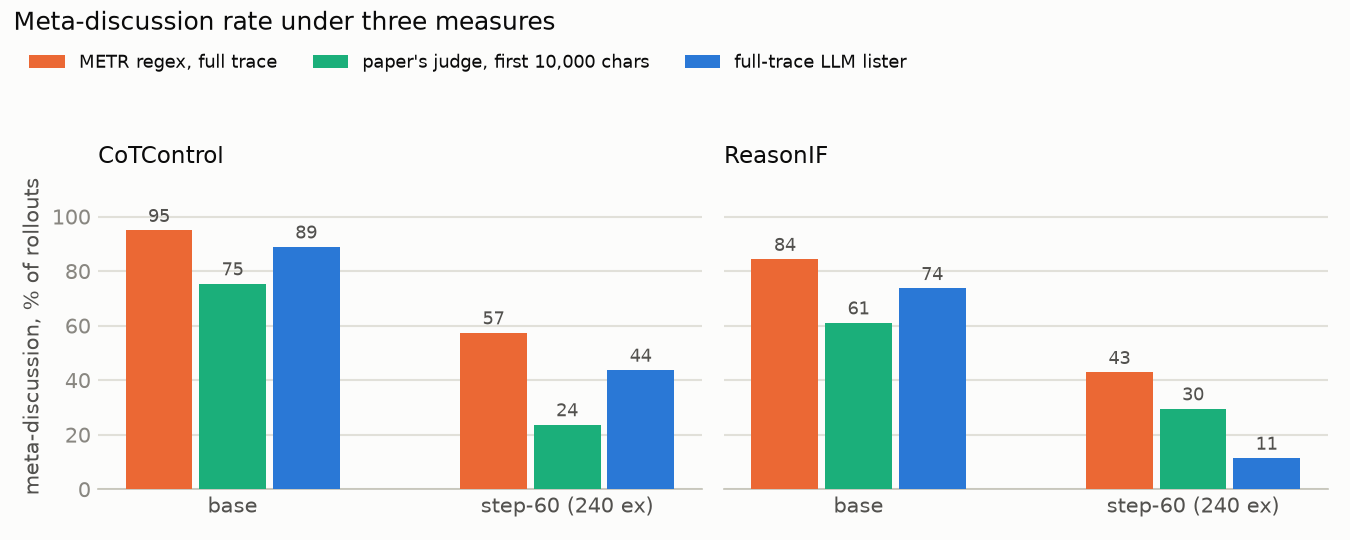
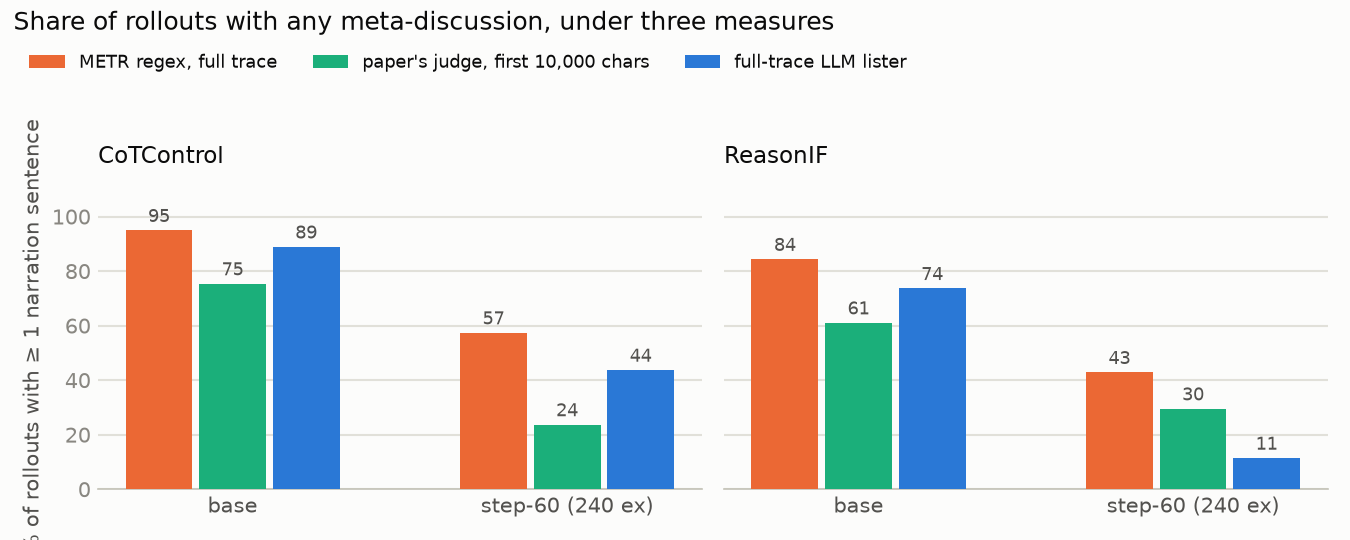
META_DISCUSSION_FULLTRACE.md: six more figures (per-condition measures, sentence overlap, per-mode SFT effect, sentences per trace, first-narration position, taxonomy, accuracy by narration); clearer y-axis on three-measures chart

Changed region(s): [[0.0, 0.0, 0.6222, 0.0593], [0.0, 0.5333, 0.0311, 0.9778], [0.0, 0.2074, 0.0311, 0.5037]]

diff --git a/scripts/report_strip_llm.py b/scripts/report_strip_llm.py
@@ -182,9 +182,9 @@ for ax, suite, title in zip(axes, ("cotcontrol", "reasonif"), ("CoTControl", "Re
         for i, v in zip(x, vals): ax.text(i + off, v + 1.5, f"{v:.0f}", ha="center", va="bottom", fontsize=8.5, color=INK2)
     ax.set_xticks(list(x)); ax.set_xticklabels([CKL[c] for c in CK], color=INK2); ax.set_ylim(0, 112); ax.set_yticks(range(0, 101, 20)); ax.yaxis.grid(True, color=GRID, lw=1); ax.set_axisbelow(True)
     ax.spines["left"].set_visible(False); ax.tick_params(length=0); ax.set_title(title, loc="left", fontsize=11, color=INK, pad=10)
-axes[0].set_ylabel("meta-discussion, % of rollouts", color=INK2)
+axes[0].set_ylabel("% of rollouts with ≥ 1 narration sentence", color=INK2)
 h_, l_ = axes[0].get_legend_handles_labels(); fig.legend(h_, l_, frameon=False, loc="upper left", bbox_to_anchor=(0.01, 0.93), ncol=3, fontsize=8.5)
-fig.suptitle("Meta-discussion rate under three measures", x=0.01, ha="left", fontsize=12, color=INK); fig.tight_layout(rect=(0, 0, 1, 0.86)); fig.savefig(OUT / "llm_three_measures.png"); plt.close(fig)
+fig.suptitle("Share of rollouts with any meta-discussion, under three measures", x=0.01, ha="left", fontsize=12, color=INK); fig.tight_layout(rect=(0, 0, 1, 0.86)); fig.savefig(OUT / "llm_three_measures.png"); plt.close(fig)
 
 # per-mode strictness
 P("### Per condition: which measure is stricter?\n")
@@ -197,6 +197,27 @@ for suite in ("cotcontrol", "reasonif"):
             P(f"| {suite} | {m} | {lbl} | {pct(mean([r['regex_meta'] for r in xs]),0)} | {pct(mean([r['capped_judge_meta'] for r in xs if r['capped_judge_meta'] is not None]),0)} | {pct(mean([r['llm_meta'] for r in xs]),0)} | {sum(r['regex_meta'] and not r['llm_meta'] for r in xs)} | {sum(r['llm_meta'] and not r['regex_meta'] for r in xs)} |")
 P("")
 # sentence-level precision / recall of regex patterns
+P("![Per-condition rates under the three measures](figures/llm_per_condition_measures.png)\n")
+# Fig: per condition, three measures, base vs step-60 (two rows)
+allm = [("cotcontrol", m) for m in CMODES] + [("reasonif", m) for m in RMODES]
+fig, axes = plt.subplots(2, 1, figsize=(10.5, 6.6), dpi=150, sharex=True)
+for ax, lbl in zip(axes, CK):
+    x = range(len(allm)); w = 0.26
+    for off, key, col, lab in ((-0.27, "regex_meta", ORANGE, "METR regex, full trace"), (0.0, "capped_judge_meta", AQUA, "paper's judge, first 10,000 chars"), (0.27, "llm_meta", BLUE, "full-trace LLM lister")):
+        vals = []
+        for suite, m in allm:
+            xs = [r for r in R[(lbl, suite)] if r["mode"] == m and r[key] is not None]
+            vals.append(100 * mean([r[key] for r in xs]) if xs else 0)
+        ax.bar([i + off for i in x], vals, width=w, color=col, label=lab, zorder=3)
+    ax.set_ylim(0, 100); ax.yaxis.grid(True, color=GRID, lw=1); ax.set_axisbelow(True); ax.spines["left"].set_visible(False); ax.tick_params(length=0)
+    ax.set_ylabel("% rollouts with narration", color=INK2); ax.set_title(CKL[lbl], loc="left", fontsize=10.5, color=INK)
+    ax.axvline(len(CMODES) - 0.5, color=BASE, lw=1)
+axes[1].set_xticks(list(range(len(allm)))); axes[1].set_xticklabels([m.replace("_", "\n") for _, m in allm], fontsize=7.5, color=INK2)
+axes[0].text(len(CMODES) / 2 - 0.5, 104, "CoTControl", ha="center", fontsize=9, color=MUTED); axes[0].text(len(CMODES) + len(RMODES) / 2 - 0.5, 104, "ReasonIF", ha="center", fontsize=9, color=MUTED)
+h_, l_ = axes[0].get_legend_handles_labels(); fig.legend(h_, l_, frameon=False, loc="upper left", bbox_to_anchor=(0.01, 0.95), ncol=3, fontsize=8.5)
+fig.suptitle("Per condition: share of rollouts with any meta-discussion, three measures", x=0.01, ha="left", fontsize=12, color=INK)
+fig.tight_layout(rect=(0, 0, 1, 0.9)); fig.savefig(OUT / "llm_per_condition_measures.png", bbox_inches="tight"); plt.close(fig)
+
 P("### Sentence level: METR's regex patterns against the LLM labels\n")
 P("Unit = sentence (split at `.!?` + space or newline). A regex hit is a true positive if the LLM also listed that sentence. Recall = share of LLM-labelled sentences that any pattern catches.\n")
 P("| ckpt | pattern | hits | precision |\n|---|---|---:|---:|")
@@ -224,6 +245,29 @@ if pats:
     ax.spines["left"].set_color(BASE); ax.spines["bottom"].set_color(BASE); ax.tick_params(length=0); ax.set_xlabel("precision: % of pattern hits the LLM also labelled narration", color=INK2)
     ax.legend(frameon=False, loc="lower right", fontsize=9); ax.set_title("Which METR regex patterns are trustworthy", loc="left", fontsize=11, color=INK)
     fig.tight_layout(); fig.savefig(OUT / "llm_regex_precision.png", bbox_inches="tight"); plt.close(fig)
+# Fig: sentence-level overlap regex vs LLM
+P("![Sentence-level overlap](figures/llm_sentence_overlap.png)\n")
+fig, ax = plt.subplots(figsize=(8, 2.8), dpi=150)
+cats = []
+for lbl in CK:
+    for suite in ("cotcontrol", "reasonif"):
+        us = [u for r in R[(lbl, suite)] for u in r["units"]]
+        if not us: continue
+        both = sum(1 for u in us if u["llm"] and u["regex"]); ro = sum(1 for u in us if u["regex"] and not u["llm"]); lo = sum(1 for u in us if u["llm"] and not u["regex"])
+        cats.append((f"{lbl} / {suite}", ro, both, lo))
+ys = list(range(len(cats)))[::-1]
+for y, (name, ro, both, lo) in zip(ys, cats):
+    tot = ro + both + lo
+    ax.barh(y, 100 * ro / tot, color=ORANGE, height=0.55, zorder=3, label="regex only" if y == ys[0] else None)
+    ax.barh(y, 100 * both / tot, left=100 * ro / tot + 0.4, color=AQUA, height=0.55, zorder=3, label="both" if y == ys[0] else None)
+    ax.barh(y, 100 * lo / tot, left=100 * (ro + both) / tot + 0.8, color=BLUE, height=0.55, zorder=3, label="LLM only" if y == ys[0] else None)
+    ax.text(101.5, y, f"n = {tot:,}", va="center", fontsize=8.5, color=INK2)
+ax.set_yticks(ys); ax.set_yticklabels([c[0] for c in cats], color=INK2, fontsize=9); ax.set_xlim(0, 118); ax.set_xticks(range(0, 101, 20)); ax.xaxis.grid(True, color=GRID, lw=1); ax.set_axisbelow(True)
+ax.spines["left"].set_color(BASE); ax.spines["bottom"].set_color(BASE); ax.tick_params(length=0); ax.set_xlabel("% of sentences flagged by either detector", color=INK2)
+ax.legend(frameon=False, loc="lower left", bbox_to_anchor=(0, 1.0), ncol=3, fontsize=9)
+ax.set_title("The two detectors mostly flag different sentences", loc="left", fontsize=11, color=INK, pad=26)
+fig.tight_layout(); fig.savefig(OUT / "llm_sentence_overlap.png", bbox_inches="tight"); plt.close(fig)
+
 # disagreement examples
 P("### Disagreement examples\n")
 for lbl in CK:
@@ -254,6 +298,43 @@ for suite in ("cotcontrol", "reasonif"):
         xs = [r for r in R[(lbl, suite)] if r["llm_meta"] and r["first_llm_pos"] is not None]
         if xs: P(f"| {suite} | first narration sentence, median position in trace ({lbl}) | | | {100*st.median(r['first_llm_pos'] for r in xs):.0f} % of trace | last: {100*st.median(r['last_llm_pos'] for r in xs):.0f} % |")
 P("\nCoTControl prompts explicitly told the model *not* to mention the constraint; ReasonIF prompts did not. Narration on CoTControl is therefore disobedience of an instruction, on ReasonIF it is unprompted.\n")
+P("![Per-mode narration rate, base vs step-60](figures/llm_per_mode_sft.png)\n\n![Narration sentences per trace](figures/llm_sentences_per_trace.png)\n\n![Where the first narration sentence sits](figures/llm_first_position.png)\n")
+# Fig: per-mode LLM rate base -> step-60 (dumbbell)
+modes_all = [("cotcontrol", m) for m in CMODES] + [("reasonif", m) for m in RMODES]
+rows_ = [(s_, m) for s_, m in modes_all if R[("base", s_)] and any(r["mode"] == m for r in R[("step-60", s_)])]
+fig, ax = plt.subplots(figsize=(8.5, 0.6 + 0.4 * len(rows_)), dpi=150); ys = list(range(len(rows_)))[::-1]
+for y, (s_, m) in zip(ys, rows_):
+    pts = [100 * (mean([r["llm_meta"] for r in R[(c, s_)] if r["mode"] == m]) or 0) for c in CK]
+    ax.plot(pts, [y, y], color=GRID, lw=2, zorder=2)
+    for c, p_, col in zip(CK, pts, (LIGHT, BLUE)): ax.scatter(p_, y, s=64, color=col, edgecolor=SURF, linewidth=2, zorder=4)
+    n60 = sum(1 for r in R[("step-60", s_)] if r["mode"] == m); ax.text(103, y, f"n₆₀={n60}", va="center", fontsize=8, color=MUTED)
+ax.set_yticks(ys); ax.set_yticklabels([m for _, m in rows_], color=INK2, fontsize=9); ax.set_xlim(0, 115); ax.set_xticks(range(0, 101, 20)); ax.xaxis.grid(True, color=GRID, lw=1); ax.set_axisbelow(True)
+ax.spines["left"].set_color(BASE); ax.spines["bottom"].set_color(BASE); ax.tick_params(length=0); ax.set_xlabel("% of rollouts with ≥ 1 narration sentence (full-trace LLM)", color=INK2)
+ax.axhline(len(RMODES) - 0.5, color=BASE, lw=1)
+ax.legend(handles=[Line2D([0],[0], marker="o", ls="", ms=8, color=c, markeredgecolor=SURF, label=CKL[l]) for l, c in zip(CK, (LIGHT, BLUE))], frameon=False, loc="lower left", bbox_to_anchor=(0, 1.0), ncol=2, fontsize=9)
+ax.set_title("SFT cuts narration in every condition", loc="left", fontsize=11, color=INK, pad=26)
+fig.tight_layout(); fig.savefig(OUT / "llm_per_mode_sft.png", bbox_inches="tight"); plt.close(fig)
+# Fig: ECDF of narration sentences per trace, CoTControl, paired subset
+fig, axes = plt.subplots(1, 2, figsize=(9.5, 3.6), dpi=150)
+for ax, suite, title in zip(axes, ("cotcontrol", "reasonif"), ("CoTControl", "ReasonIF")):
+    b_ = {(r["sample_id"], r["mode"]): r for r in R[("base", suite)]}; s_ = {(r["sample_id"], r["mode"]): r for r in R[("step-60", suite)]}
+    keys = sorted(set(b_) & set(s_))
+    for c, d_, col in (("base", b_, LIGHT), ("step-60", s_, BLUE)):
+        v = sorted(d_[k]["n_llm_sentences"] for k in keys); n = len(v)
+        if n: ax.step(v, [100 * (i + 1) / n for i in range(n)], where="post", color=col, lw=2, label=f"{CKL[c]} (median {int(st.median(v))})", zorder=3)
+    ax.set_xlim(0, 80); ax.set_ylim(0, 100); ax.yaxis.grid(True, color=GRID, lw=1); ax.set_axisbelow(True); ax.spines["left"].set_visible(False); ax.tick_params(length=0)
+    ax.set_xlabel("narration sentences per trace", color=INK2); ax.set_title(f"{title} (paired, n={len(keys)})", loc="left", fontsize=10.5, color=INK); ax.legend(frameon=False, loc="lower right", fontsize=9)
+axes[0].set_ylabel("% of traces (cumulative)", color=INK2)
+fig.suptitle("Narration sentences per trace, before and after SFT", x=0.01, ha="left", fontsize=12, color=INK); fig.tight_layout(rect=(0, 0, 1, 0.93)); fig.savefig(OUT / "llm_sentences_per_trace.png"); plt.close(fig)
+# Fig: ECDF of first narration position (fraction of trace), CoTControl
+fig, ax = plt.subplots(figsize=(8, 3.6), dpi=150)
+for c, col in zip(CK, (LIGHT, BLUE)):
+    v = sorted(100 * r["first_llm_pos"] for r in R[(c, "cotcontrol")] if r["llm_meta"] and r["first_llm_pos"] is not None); n = len(v)
+    if n: ax.step(v, [100 * (i + 1) / n for i in range(n)], where="post", color=col, lw=2, label=f"{CKL[c]} (median {st.median(v):.0f} %)", zorder=3)
+ax.set_xlim(0, 100); ax.set_ylim(0, 100); ax.yaxis.grid(True, color=GRID, lw=1); ax.set_axisbelow(True); ax.spines["left"].set_visible(False); ax.tick_params(length=0)
+ax.set_xlabel("position of the first narration sentence, % of trace length", color=INK2); ax.set_ylabel("% of narrating traces (cumulative)", color=INK2)
+ax.legend(frameon=False, loc="lower right", fontsize=9); ax.set_title("After SFT the first narration sentence comes much later in the trace (CoTControl)", loc="left", fontsize=11, color=INK)
+fig.tight_layout(); fig.savefig(OUT / "llm_first_position.png"); plt.close(fig)
 
 # ---------------------------------------------------------------- 4. narration units violating (LLM labels)
 P("## 4. Do the narration sentences themselves violate the condition?\n")
@@ -322,6 +403,22 @@ for suite in ("cotcontrol", "reasonif"):
         if not ss: continue
         c = Counter(kind(s) for s in ss); n = len(ss)
         P(f"| {suite} | {lbl} | {n} | {pct(c['restating']/n)} | {pct(c['self-check']/n)} | {pct(c['planning']/n)} | {pct(c['other']/n)} |")
+P("\n![Narration taxonomy](figures/llm_taxonomy.png)\n")
+fig, ax = plt.subplots(figsize=(8, 2.8), dpi=150); rows_t = []
+for suite in ("cotcontrol", "reasonif"):
+    for lbl in CK:
+        ss = [x for r in R[(lbl, suite)] for x in r["llm_sentences"]]
+        if ss: c = Counter(kind(x) for x in ss); rows_t.append((f"{suite} / {lbl}", [100 * c[k] / len(ss) for k in ("restating", "self-check", "planning", "other")], len(ss)))
+ys = list(range(len(rows_t)))[::-1]; cols = (BLUE, ORANGE, AQUA, BASE); labs = ("restating the rule", "self-check", "planning around it", "other")
+for y, (name, vals, n) in zip(ys, rows_t):
+    left = 0
+    for v, col, lab in zip(vals, cols, labs):
+        ax.barh(y, v, left=left, color=col, height=0.55, zorder=3, label=lab if y == ys[0] else None); left += v + 0.4
+    ax.text(103, y, f"n = {n:,}", va="center", fontsize=8.5, color=INK2)
+ax.set_yticks(ys); ax.set_yticklabels([r[0] for r in rows_t], color=INK2, fontsize=9); ax.set_xlim(0, 120); ax.set_xticks(range(0, 101, 20)); ax.xaxis.grid(True, color=GRID, lw=1); ax.set_axisbelow(True)
+ax.spines["left"].set_color(BASE); ax.spines["bottom"].set_color(BASE); ax.tick_params(length=0); ax.set_xlabel("% of LLM-labelled narration sentences (rule-based classes)", color=INK2)
+ax.legend(frameon=False, loc="lower left", bbox_to_anchor=(0, 1.0), ncol=4, fontsize=9); ax.set_title("What the narration sentences do", loc="left", fontsize=11, color=INK, pad=26)
+fig.tight_layout(); fig.savefig(OUT / "llm_taxonomy.png", bbox_inches="tight"); plt.close(fig)
 P("\n## 6. Compliance and accuracy conditional on narration\n")
 P("| suite | condition | ckpt | compliant, no narration | compliant, narration | correct, no narration | correct, narration |\n|---|---|---|---:|---:|---:|---:|")
 for suite in ("cotcontrol", "reasonif"):
@@ -331,6 +428,25 @@ for suite in ("cotcontrol", "reasonif"):
             if not xs: continue
             no = [r for r in xs if not r["llm_meta"]]; ye = [r for r in xs if r["llm_meta"]]
             P(f"| {suite} | {m} | {lbl} | {pct(mean([sc(r,'original','binary') for r in no]))} (n {len(no)}) | {pct(mean([sc(r,'original','binary') for r in ye]))} (n {len(ye)}) | {pct(mean([r['correct'] for r in no]))} | {pct(mean([r['correct'] for r in ye]))} |")
+
+P("\n![Accuracy conditional on narration](figures/llm_accuracy_by_narration.png)\n")
+P("At base on CoTControl, the ~10 % of rollouts *without* any narration answer correctly far less often (≈ 25–40 %) than the narrating majority (≈ 55 %). This is selection, not a cost of silence: the non-narrating base rollouts are disproportionately the degenerate ones (near-empty reasoning, or a trace that only emits the answer line), and the pattern is absent on ReasonIF where the sample of non-narrators is tiny. After SFT the split cannot be read the same way because the non-narrating group becomes the majority.\n")
+fig, axes = plt.subplots(1, 2, figsize=(11, 4.6), dpi=150, gridspec_kw={"wspace": 0.55})
+for ax, suite, modes_ in zip(axes, ("cotcontrol", "reasonif"), (CMODES, RMODES)):
+    ys = list(range(len(modes_)))[::-1]
+    for y, m in zip(ys, modes_):
+        xs = [r for r in R[("base", suite)] if r["mode"] == m and r["llm_meta"] is not None and r["correct"] is not None]
+        no = mean([r["correct"] for r in xs if not r["llm_meta"]]); ye = mean([r["correct"] for r in xs if r["llm_meta"]])
+        if no is None or ye is None: continue
+        ax.plot([100 * no, 100 * ye], [y, y], color=GRID, lw=2, zorder=2)
+        ax.scatter(100 * no, y, s=64, color=LIGHT, edgecolor=SURF, linewidth=2, zorder=4); ax.scatter(100 * ye, y, s=64, color=BLUE, edgecolor=SURF, linewidth=2, zorder=5)
+        ax.text(102, y, f"n {sum(1 for r in xs if not r['llm_meta'])}/{sum(1 for r in xs if r['llm_meta'])}", va="center", fontsize=7.5, color=MUTED)
+    ax.set_yticks(ys); ax.set_yticklabels(modes_, color=INK2, fontsize=9); ax.set_xlim(0, 118); ax.set_xticks(range(0, 101, 20)); ax.xaxis.grid(True, color=GRID, lw=1); ax.set_axisbelow(True)
+    ax.spines["left"].set_color(BASE); ax.spines["bottom"].set_color(BASE); ax.tick_params(length=0); ax.set_xlabel("answer accuracy, % (base)", color=INK2)
+    ax.set_title("CoTControl" if suite == "cotcontrol" else "ReasonIF", loc="left", fontsize=10.5, color=INK)
+fig.legend(handles=[Line2D([0],[0], marker="o", ls="", ms=8, color=LIGHT, markeredgecolor=SURF, label="rollouts without narration"), Line2D([0],[0], marker="o", ls="", ms=8, color=BLUE, markeredgecolor=SURF, label="rollouts with narration")],
+           frameon=False, loc="upper left", bbox_to_anchor=(0.01, 0.94), ncol=2, fontsize=9)
+fig.suptitle("Does narrating the constraint cost accuracy? (base, n without/with)", x=0.01, ha="left", fontsize=12, color=INK); fig.tight_layout(rect=(0, 0, 1, 0.9)); fig.savefig(OUT / "llm_accuracy_by_narration.png", bbox_inches="tight"); plt.close(fig)
 
 # ---------------------------------------------------------------- 7. validity checks
 P("\n## 7. Validity checks\n")

diff --git a/META_DISCUSSION_FULLTRACE.md b/META_DISCUSSION_FULLTRACE.md
@@ -112,6 +112,8 @@ Rollout-level rate under: METR's regex (seven patterns, whole trace, any hit); t
 | reasonif | no_comma | base | 94 % | 71 % | 77 % | 8 | 0 |
 | reasonif | no_comma | step-60 | 43 % | 29 % | 5 % | 8 | 0 |
 
+![Per-condition rates under the three measures](figures/llm_per_condition_measures.png)
+
 ### Sentence level: METR's regex patterns against the LLM labels
 
 Unit = sentence (split at `.!?` + space or newline). A regex hit is a true positive if the LLM also listed that sentence. Recall = share of LLM-labelled sentences that any pattern catches.
@@ -138,6 +140,8 @@ Unit = sentence (split at `.!?` + space or newline). A regex hit is a true posit
 | step-60 | **recall of LLM sentences** | 3384 | 19.1 % |
 
 ![Regex pattern precision](figures/llm_regex_precision.png)
+
+![Sentence-level overlap](figures/llm_sentence_overlap.png)
 
 ### Disagreement examples
 
@@ -173,6 +177,12 @@ Unit = sentence (split at `.!?` + space or newline). A regex hit is a true posit
 
 CoTControl prompts explicitly told the model *not* to mention the constraint; ReasonIF prompts did not. Narration on CoTControl is therefore disobedience of an instruction, on ReasonIF it is unprompted.
 
+![Per-mode narration rate, base vs step-60](figures/llm_per_mode_sft.png)
+
+![Narration sentences per trace](figures/llm_sentences_per_trace.png)
+
+![Where the first narration sentence sits](figures/llm_first_position.png)
+
 ## 4. Do the narration sentences themselves violate the condition?
 
 | suite | condition | base: narration sentences violating | step-60 |
@@ -203,6 +213,9 @@ Rule-based classification of each LLM-labelled sentence (precedence: self-check 
 | cotcontrol | step-60 | 4020 | 31.0 % | 13.8 % | 26.3 % | 28.8 % |
 | reasonif | base | 3084 | 24.1 % | 17.3 % | 15.2 % | 43.4 % |
 | reasonif | step-60 | 66 | 21.2 % | 6.1 % | 30.3 % | 42.4 % |
+
+![Narration taxonomy](figures/llm_taxonomy.png)
+
 
 ## 6. Compliance and accuracy conditional on narration
 
@@ -238,6 +251,11 @@ Rule-based classification of each LLM-labelled sentence (precedence: self-check 
 | reasonif | json_format | step-60 | 0.0 % (n 10) | 0.0 % (n 2) | 90.0 % | 100.0 % |
 | reasonif | no_comma | base | 0.0 % (n 11) | 0.0 % (n 37) | 90.0 % | 94.6 % |
 | reasonif | no_comma | step-60 | 40.0 % (n 20) | 0.0 % (n 1) | 90.0 % | 100.0 % |
+
+![Accuracy conditional on narration](figures/llm_accuracy_by_narration.png)
+
+At base on CoTControl, the ~10 % of rollouts *without* any narration answer correctly far less often (≈ 25–40 %) than the narrating majority (≈ 55 %). This is selection, not a cost of silence: the non-narrating base rollouts are disproportionately the degenerate ones (near-empty reasoning, or a trace that only emits the answer line), and the pattern is absent on ReasonIF where the sample of non-narrators is tiny. After SFT the split cannot be read the same way because the non-narrating group becomes the majority.
+
 
 ## 7. Validity checks
 
